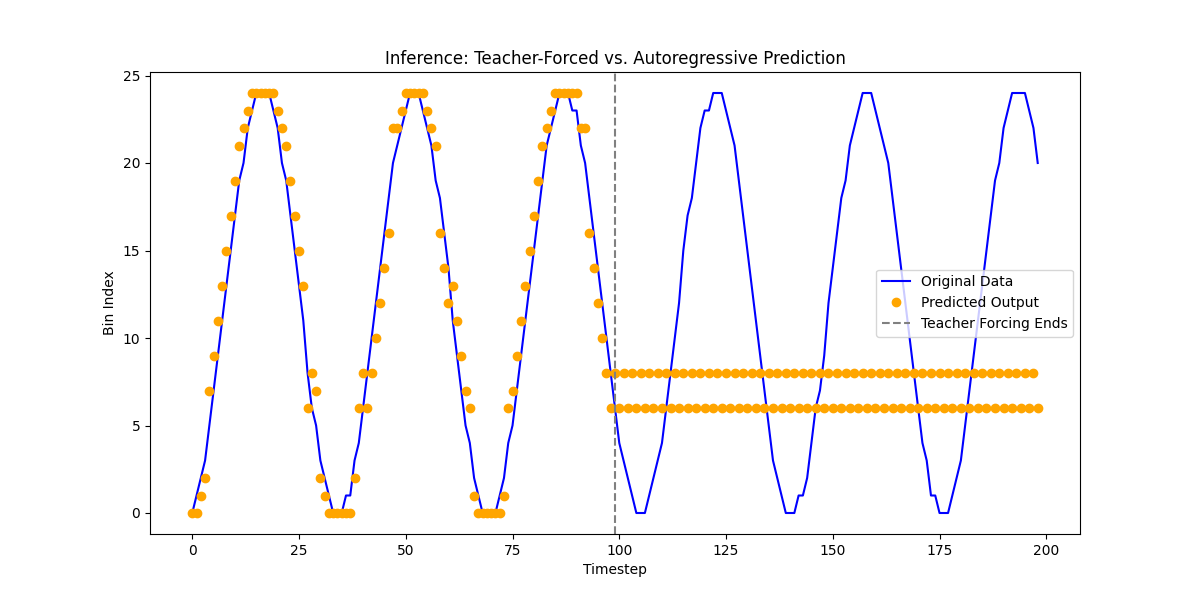
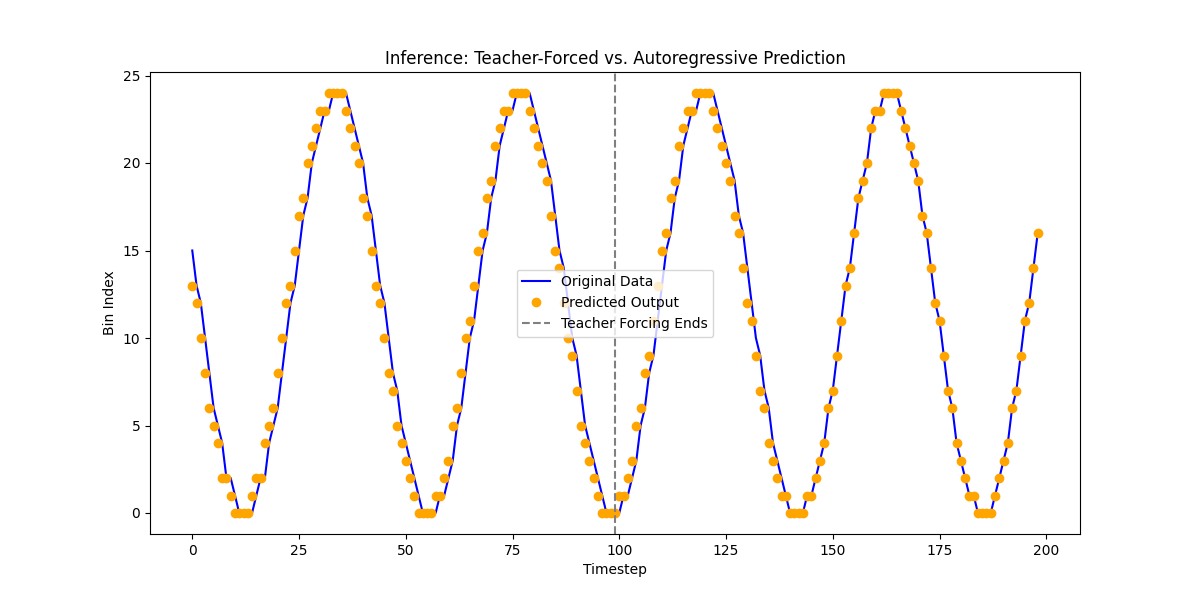
CONVERT TO WORKING OLD

diff --git a/src/main.py b/src/main.py
@@ -6,6 +6,7 @@ import wandb
 from tqdm import tqdm
 import matplotlib.pyplot as plt
 from pscan import pscan
+from nonlinear_through_time_delay_main import DelayedMLP
 from synaptic_delay import compute_synaptic_delay
 
 
@@ -22,7 +23,7 @@ HIDDEN_DIM = 64
 CHANNELS = NUM_BINS
 TIMESTEPS = SEQUENCE_LENGTH
 LEARNING_RATE = 1e-2
-NUM_EPOCHS = 1000
+NUM_EPOCHS = 150
 OUTPUT_DIM = NUM_BINS
 
 DEVICE = torch.device("cuda" if torch.cuda.is_available() else "cpu")
@@ -116,7 +117,7 @@ def train_model(model: nn.Module, data_loader: torch.utils.data.DataLoader,
     for epoch in range(num_epochs):
         total_loss = 0.0
         for inputs, targets in data_loader:
-            # model.init_buffer(BATCH_SIZE)
+            model.init_buffer(BATCH_SIZE)
             inputs, targets = inputs.to(DEVICE), targets.to(DEVICE)
             optimizer.zero_grad()
             assert inputs.shape == (BATCH_SIZE, SEQUENCE_LENGTH-1, NUM_BINS)
@@ -132,7 +133,7 @@ def train_model(model: nn.Module, data_loader: torch.utils.data.DataLoader,
         print(f"Epoch [{epoch + 1}/{num_epochs}], Loss: {avg_loss:.4f}")
 
 def inference_and_plot(model, inputs):
-    # model.init_buffer(BATCH_SIZE)
+    model.init_buffer(BATCH_SIZE)
     model.eval()
     with torch.no_grad():
         predictions = []
@@ -144,20 +145,18 @@ def inference_and_plot(model, inputs):
                 print("\n*** Switching from teacher forcing to autoregressive prediction ***\n")
 
             if teacher_forcing:
-                current_input = inputs[:, :t+1, :]
+                # current_input = inputs[:, :t+1, :]
+                current_input = inputs[:, t, :]
             else:
                 last_output = predictions[-1]
                 probabilities = torch.softmax(last_output, dim=-1)
                 predicted_indices = probabilities.argmax(dim=-1)
-                current_input = torch.zeros_like(inputs[:, :t+1, :])
-                # print(current_input.shape)
-                # print(current_input[0, -1, :])
-                current_input[:, -1, :].scatter_(1, predicted_indices.unsqueeze(-1), 1)
-                # print(current_input[0, -1, :])
-                # input()
-                # current_input.scatter_(1, predicted_indices.unsqueeze(-1), 1)
+                # current_input = torch.zeros_like(inputs[:, :t+1, :])
+                current_input = torch.zeros_like(inputs[:, t, :])
+                # current_input[:, -1, :].scatter_(1, predicted_indices.unsqueeze(-1), 1)
+                current_input.scatter_(1, predicted_indices.unsqueeze(-1), 1)
 
-            output = model(current_input)
+            output = model(current_input.unsqueeze(1))
             predictions.append(output[:, -1, :])
 
         predictions = torch.stack(predictions, dim=1)
@@ -193,9 +192,9 @@ def main():
     data_loader = torch.utils.data.DataLoader(dataset, batch_size=BATCH_SIZE, shuffle=True)
 
     # Initialize model and training components
-    model = SSMSynapticDelay().to(DEVICE)
-    # model = DelayedMLP(input_size=NUM_BINS, hidden_size=HIDDEN_DIM, output_size=OUTPUT_DIM).to(DEVICE)
-    # model.init_buffer(BATCH_SIZE)
+    # model = SSMSynapticDelay().to(DEVICE)
+    model = DelayedMLP(input_size=NUM_BINS, hidden_size=HIDDEN_DIM, output_size=OUTPUT_DIM).to(DEVICE)
+    model.init_buffer(BATCH_SIZE)
     optimizer = optim.Adam(model.parameters(), lr=LEARNING_RATE)
     criterion = nn.CrossEntropyLoss()
 
